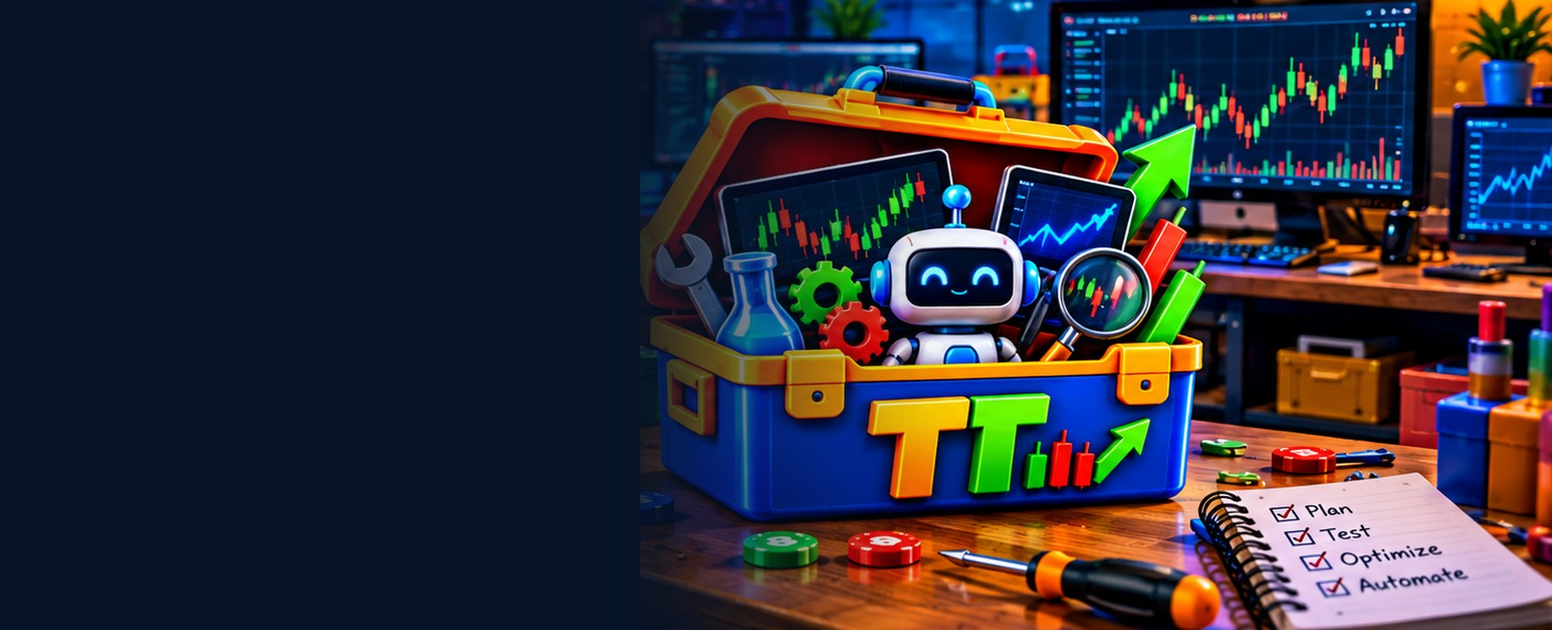
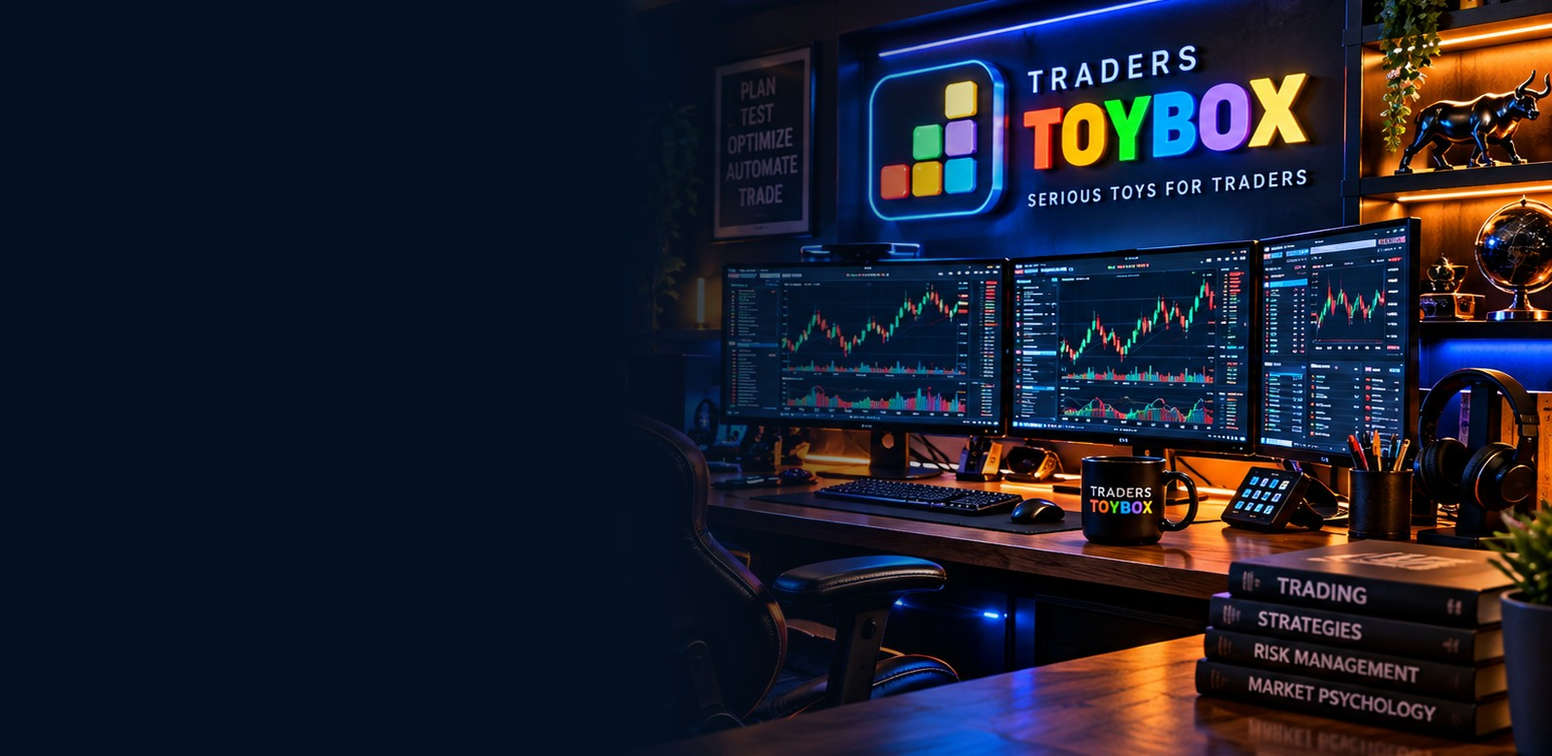
Add files via upload

diff --git a/index.html b/index.html
@@ -20,6 +20,21 @@
 <link href="/assets/favicon.png" rel="icon" type="image/png"/>
 <style>
 :root{--bg:#061019;--panel:#0f2533;--panel2:#153548;--line:#285268;--teal:#43e1dd;--cyan:#31c7ee;--white:#f4faff;--muted:#b0c9d5}*{box-sizing:border-box}html{scroll-behavior:smooth}body{margin:0;background:radial-gradient(ellipse at 70% 0,#153e4d 0,#07131e 42%,#050d14 100%);color:var(--white);font:15px/1.6 'Segoe UI',Arial,sans-serif}a{color:inherit;text-decoration:none}button{font:inherit}.site-nav{position:sticky;top:0;z-index:40;display:flex;align-items:center;justify-content:space-between;gap:22px;padding:14px max(22px,calc((100vw - 1390px)/2));background:#07141dea;border-bottom:1px solid #31596a;backdrop-filter:blur(16px)}.site-brand{font-size:23px;font-weight:950;letter-spacing:-.8px;white-space:nowrap}.site-brand em{font-style:normal;color:var(--teal)}.site-links{display:flex;gap:6px;flex-wrap:wrap}.site-links a{padding:9px 11px;border-radius:7px;color:#c5d8e2;font-size:13px;font-weight:700}.site-links a:hover,.site-links a[aria-current]{background:#153c4d;color:#77edf2}.shell{max-width:1430px;padding:26px 25px 70px;margin:auto}.hero{position:relative;min-height:620px;overflow:hidden;border:1px solid #32758b;border-radius:18px;background:#071925 url('assets/toybox-hero.jpg') center center/cover no-repeat;display:flex;align-items:flex-end;box-shadow:0 30px 100px #0006}.hero:before{content:'';position:absolute;inset:0;background:linear-gradient(90deg,#06121cf5 0%,#06131cdd 29%,#06131c22 75%),linear-gradient(0deg,#06121ce8 0%,transparent 60%)}.hero-content{position:relative;z-index:1;padding:45px 50px;max-width:730px}.eyebrow{font-size:12px;letter-spacing:2.4px;font-weight:950;color:#73f3f2;text-transform:uppercase}.hero h1{font-size:clamp(42px,5vw,75px);line-height:1.03;margin:14px 0 18px;letter-spacing:-2px;text-transform:uppercase;text-shadow:0 5px 25px #000}.hero h1 span{color:var(--teal)}.hero p{font-size:18px;line-height:1.55;color:#e3f3f9;max-width:590px;text-shadow:0 2px 12px #000}.actions{display:flex;flex-wrap:wrap;gap:12px;margin-top:24px}.btn{display:inline-flex;align-items:center;justify-content:center;min-height:48px;padding:12px 20px;border-radius:8px;background:linear-gradient(110deg,#50e9dd,#2bbde9);color:#061924;font-weight:900;font-size:13px;letter-spacing:.3px}.btn.outline{background:#0c2739dd;color:#e5fbff;border:1px solid #5cc9dc}.btn:hover{filter:brightness(1.13)}.status{margin-top:17px;font-size:11px;color:#a6c4d0}.strip{display:grid;grid-template-columns:repeat(6,1fr);gap:1px;background:#244b5b;border:1px solid #2d6376;border-radius:10px;overflow:hidden;margin:18px 0 55px}.strip span{background:#0d2635;padding:14px 8px;text-align:center;font-weight:900;color:#9ee7ef;font-size:12px;letter-spacing:.5px}.section{margin:54px 0;scroll-margin-top:90px}.section-heading{max-width:980px;margin-bottom:25px}.section-heading h2{font-size:clamp(30px,3.2vw,48px);letter-spacing:-1.1px;line-height:1.13;margin:10px 0}.section-heading p{color:var(--muted);font-size:16px;margin:0}.grid3{display:grid;grid-template-columns:repeat(3,1fr);gap:17px}.grid4{display:grid;grid-template-columns:repeat(4,1fr);gap:14px}.card{border:1px solid #315d70;background:linear-gradient(155deg,#153347,#0d202e);border-radius:13px;padding:24px;position:relative;overflow:hidden}.card.featured{border-color:#52bbcc;background:linear-gradient(155deg,#194659,#102838)}.card .symbol{font-size:32px;color:#72e8e5;margin-bottom:12px}.card h3{font-size:24px;line-height:1.15;margin:8px 0 10px}.card p{color:#b7ceda;margin:0 0 16px}.card ul{padding-left:18px;color:#c8dbe5;font-size:13px}.card li{margin:8px 0}.card .small{font-size:11px;color:#79e8e5;letter-spacing:1.4px;font-weight:900}.card .btn{margin-top:12px}.feature-card h3{font-size:19px}.feature-card .symbol{font-size:27px}.feature-card p{font-size:13px}.callout{padding:30px;border:1px solid #3d8b9c;background:linear-gradient(120deg,#113648,#0b1f2e);border-radius:15px}.callout strong{color:#8af1ef}.process{display:grid;grid-template-columns:repeat(6,1fr);gap:10px}.step{padding:20px 13px;border:1px solid #315d70;border-radius:10px;background:#102b3b;min-height:170px}.step b{font-size:28px;color:#57e5e0}.step h3{font-size:16px;margin:12px 0 7px}.step p{font-size:12px;color:#b7d0dc;margin:0}.showroom{display:grid;grid-template-columns:1fr 1fr;gap:18px}.showroom .card{min-height:250px;padding:30px}.showroom h3{font-size:30px}.badge{display:inline-block;padding:5px 10px;border:1px solid #3c7c8f;border-radius:99px;color:#94e7f0;font-size:11px;font-weight:900}.fine{color:#8eacbb;font-size:12px}.footer{border-top:1px solid #294b5c;margin-top:65px;padding:25px 0;display:flex;justify-content:space-between;gap:18px;color:#9db9c6;font-size:12px;flex-wrap:wrap}.footer a{color:#9cecf2}.mechanic-mark{width:49px;height:49px;display:inline-flex;align-items:center;justify-content:center;border:1px solid #41849a;border-radius:11px;background:#153647;margin-right:13px;vertical-align:middle;font-size:26px}@media(max-width:1050px){.grid4{grid-template-columns:repeat(2,1fr)}.process{grid-template-columns:repeat(3,1fr)}.site-nav{flex-direction:column;align-items:flex-start}.hero{min-height:550px}}@media(max-width:700px){.shell{padding:14px 14px 40px}.hero{min-height:580px;background-position:60% center}.hero:before{background:linear-gradient(0deg,#06121cfa 0%,#06121ccf 48%,#06121c33 100%)}.hero-content{padding:23px}.hero h1{font-size:42px}.hero p{font-size:15px}.strip{grid-template-columns:repeat(3,1fr)}.grid3,.grid4,.showroom{grid-template-columns:1fr}.process{grid-template-columns:repeat(2,1fr)}.section{margin:38px 0}.site-links a{font-size:12px;padding:6px}.callout{padding:20px}}
+
+/* Traders Toybox brand accents — logo-matched orange */
+:root { --toybox-orange:#F9A21F; }
+.hero h1 span { color:var(--toybox-orange) !important; text-shadow:0 0 32px #f9a21f33; }
+.hero .eyebrow { color:var(--toybox-orange) !important; }
+.hero-download-btn { background:var(--toybox-orange) !important; border-color:var(--toybox-orange) !important; color:#09182c !important; }
+.hero-download-btn:hover { background:#ffb83c !important; }
+/* Nine feature cards arranged in three even columns on desktop. */
+#features .grid4 { grid-template-columns:repeat(3,minmax(0,1fr)); }
+#features .backtester-card { border-color:#f9a21f80; background:linear-gradient(145deg,#142b49,#102038); }
+#features .backtester-card .symbol { color:var(--toybox-orange); }
+#features .backtester-card a { color:var(--toybox-orange); font-weight:800; text-decoration:none; }
+#features .backtester-card a:hover { text-decoration:underline; }
+@media(max-width:850px) { #features .grid4 {grid-template-columns:repeat(2,minmax(0,1fr));} }
+@media(max-width:560px) { #features .grid4 {grid-template-columns:1fr;} }
 </style>
 <style id="bm-blue-orange-v3">
 /* V3 — Midnight navy / electric blue / mechanic orange. No existing hrefs or JS modified. */
@@ -148,12 +163,11 @@ body{background:radial-gradient(ellipse at 78% -5%,#153c69 0,#0b1d34 37%,#080f1c
 .hero:before{background:linear-gradient(90deg,rgba(5,16,32,.88) 0%,rgba(5,16,32,.58) 35%,rgba(5,16,32,0) 72%),linear-gradient(0deg,rgba(5,16,32,.35),transparent 45%)}
 .hero:after{opacity:.25}
 @media(max-width:700px){.hero{background-position:64% center}.hero:before{background:linear-gradient(0deg,rgba(5,16,32,.97) 0%,rgba(5,16,32,.83) 60%,rgba(5,16,32,.3) 100%)}}
-</style></head>
+</style><style>#features .feature-card{display:flex;flex-direction:column}#features .feature-card>a{display:inline-block;margin-top:auto;padding-top:16px;color:#f9a21f;font-size:12px;font-weight:800;letter-spacing:.05em;text-decoration:none}#features .feature-card>a:hover{color:#fff}</style></head>
 <body><nav aria-label="Main navigation" class="site-nav"><div class="site-links"><a aria-current="page" href="index.html">Home</a><a href="#modes">Strategy Modes</a><a href="#demo">How It Works</a><a href="basic.html#premium">Premium Bots</a><a href="basic.html">Trading Bots</a><a href="tools.html">Trading Tools</a><a href="howitworks.html">Control Center</a><a href="product_slideshows.html">Product Slideshows</a><a href="about.html">About</a></div><a aria-label="Traders Toybox — Home" class="site-brand" href="index.html"><img alt="Traders Toybox" src="assets/logo.png"/></a></nav>
 <main class="shell"><section aria-label="Traders Toybox professional trading tools" class="hero" id="top"><div class="hero-content"><div class="eyebrow">TRADERS TOYBOX · ADVANCED TRADING SOFTWARE</div><h1>PROFESSIONAL TRADING<br/><span>TOOLS.</span></h1><p>Advanced charts, automated trading bots, and strategy research tools designed for serious traders. <strong>Build, test, diagnose and refine your strategies</strong> with the tools that fit your trading workflow.</p><div class="actions hero-download-actions"><a class="btn hero-download-btn" href="basic.html">EXPLORE TRADING TOOLS →</a><div class="hero-bot-actions"><a class="btn outline" href="basic.html#free">FREE TRADING BOTS →</a><a class="btn outline" href="basic.html#premium">PREMIUM TRADING BOTS →</a></div></div><div class="status">CHART · BACKTEST · AUTOMATE · ANALYZE · VALIDATE · TRADE</div></div></section>
-<div aria-label="Research workflow" class="strip"><span>01 BUILD</span><span>02 BACKTEST</span><span>03 DIAGNOSE</span><span>04 REPAIR</span><span>05 VALIDATE</span><span>06 DEPLOY</span></div><section class="section" id="features"><div class="section-heading"><div class="eyebrow">Trading platform capabilities</div><h2>Integrated tools for serious traders.</h2><p>A research-first platform that connects strategy development with the trading tools and bots already in the ecosystem.</p></div><div class="grid4"><article class="card feature-card"><div class="symbol">⌘</div><h3>Strategy Builder</h3><p>Configure rules and testable hypotheses, with planned natural-language HAL assistance.</p></article><article class="card feature-card"><div class="symbol">▤</div><h3>Trade Diagnostics</h3><p>Review winners, losers, exits, regime patterns and risk characteristics.</p></article><article class="card feature-card"><div class="symbol">⚙</div><h3>Repair History</h3><p>Keep versions, proposed fixes, failed experiments and evidence together.</p></article><article class="card feature-card"><div class="symbol">↗</div><h3>Walk-Forward Lab</h3><p>Use chronological windows to challenge promising candidates.</p></article><article class="card feature-card"><div class="symbol">▧</div><h3>Advanced Chart</h3><p>Professional charting and chart-based trading tools.</p></article><article class="card feature-card"><div class="symbol">◈</div><h3>HAL Intelligence</h3><p>Research support, decision analysis and controlled repair planning.</p></article><article class="card feature-card"><div class="symbol">⌁</div><h3>Autonomous Trading Bots</h3><p>Automate strategy execution with specialized trading bots, configurable controls, and supported broker connections.</p></article><article class="card feature-card"><div class="symbol">⇄</div><h3>Broker Hub</h3><p>Shared broker integration architecture for compatible tools and bots.</p></article></div><div class="actions"><a class="btn outline" href="tools.html">EXPLORE TRADING TOOLS ↗</a><a class="btn outline" href="hal_trade_planner.html">EXPLORE HAL VISION ↗</a></div></section><section class="section" id="demo"><div class="section-heading"><div class="eyebrow">SEE IT IN ACTION</div><h2>BUILD, TEST, AND ANALYZE TRADING STRATEGIES.</h2><p>Describe an idea, investigate a strategy, or turn a chart candle into a backtest.</p></div><div class="bm-demo-grid"><article class="bm-demo-card"><div class="bm-demo-copy"><div class="eyebrow">01 · NATURAL LANGUAGE BUILDER</div><h3>DESCRIBE IT. BUILD IT.</h3><p>See a plain-English SNAP RSI idea translated into editable strategy settings.</p></div><video aria-label="Simulated natural language strategy builder demonstration" controls="" playsinline="" poster="assets/videos/Backtest_Mechanic_Natural_Language_Poster.jpg" preload="metadata"><source src="assets/videos/Backtest_Mechanic_Natural_Language_Demo.mp4" type="video/mp4"/>Your browser does not support HTML5 video.</video><p class="fine">Simulated interface demonstration; configuration shown is not a backtest result.</p></article><article class="bm-demo-card"><div class="bm-demo-copy"><div class="eyebrow">02 · STRATEGY RESEARCH</div><h3>DIAGNOSE IT. REPAIR IT.</h3><p>Explore the testing, diagnostics, and controlled-repair research workflow.</p></div><video aria-label="Simulated strategy repair workflow demonstration" controls="" playsinline="" preload="metadata"><source src="assets/videos/Backtest_Mechanic_Homepage_Animation.mp4" type="video/mp4"/>Your browser does not support HTML5 video.</video><p class="fine">Illustrative workflow animation; simulated results do not guarantee profitability.</p></article><article class="bm-demo-card"><div class="bm-demo-copy"><div class="eyebrow">03 · CHART SNAPSHOT</div><h3>SEE IT. CAPTURE IT. TEST IT.</h3><p>Click a chart candle, capture its conditions, and build a strategy for historical testing.</p></div><video aria-label="Illustrative chart Snapshot to backtest workflow animation" controls="" playsinline="" poster="assets/videos/Backtest_Mechanic_Snapshot_Homepage_Poster.jpg" preload="metadata"><source src="assets/videos/Backtest_Mechanic_Snapshot_Homepage_Animation.mp4" type="video/mp4"/>Your browser does not support HTML5 video.</video><p class="fine">Illustrative workflow animation; not a live backtest or performance result.</p></article><article class="bm-demo-card"><div class="bm-demo-copy"><div class="eyebrow">04 · AUTOMATIC CHART PATTERN DETECTION</div><h3>LET THE CHART FIND THE PATTERNS.</h3><p>Watch Chart Lab automatically identify diagonal trendlines, triangles, double tops and bottoms, and candlestick patterns—no manual drawing required.</p></div><video aria-label="Illustrative automatic chart pattern detection simulation with music" controls="" playsinline="" preload="metadata"><source src="assets/videos/Backtest_Mechanic_Auto_Pattern_Detection_Demo_With_Music.mp4" type="video/mp4"/>Your browser does not support HTML5 video.</video><p class="fine">Illustrative automatic pattern detection simulation, not live market analysis or trading performance.</p></article></div></section><section class="section" id="difference"><div class="section-heading"><div class="eyebrow">BUILD | REPAIR | DEPLOY</div><h2>STRATEGY PERFORMANCE NOT MEETING EXPECTATIONS? <span>IDENTIFY WHAT NEEDS TO CHANGE.</span></h2><p>Backtest your strategy. Find its weaknesses. Attempt a repair. Test the changes. Bring the proposed improvements back to your bot.</p></div><div class="grid3"><article class="card feature-card"><h3>Diagnose. Repair. Retest.</h3><p>Find weaknesses, propose fixes, and compare repairs with the original strategy.</p><button aria-label="More about Diagnose. Repair. Retest." class="info-btn" data-info="0" type="button">ⓘ LEARN MORE</button></article><article class="card feature-card"><h3>Intelligent Repair Modes</h3><p>Choose manual, assisted, or eventually autonomous strategy investigation.</p><button aria-label="More about Intelligent Repair Modes" class="info-btn" data-info="1" type="button">ⓘ LEARN MORE</button></article><article class="card feature-card"><h3>Dynamic Market Intelligence</h3><p>Study strategy behavior as volatility and market conditions change.</p><button aria-label="More about Dynamic Market Intelligence" class="info-btn" data-info="2" type="button">ⓘ LEARN MORE</button></article><article class="card feature-card"><h3>Rules That Can Adapt</h3><p>Explore intelligent adjustments within explicit trading and risk boundaries.</p><button aria-label="More about Rules That Can Adapt" class="info-btn" data-info="3" type="button">ⓘ LEARN MORE</button></article><article class="card feature-card"><h3>Refine. Validate. Deploy.</h3><p>Export a proposed repair and review it in a compatible trading bot.</p><button aria-label="More about Repair It. Return It." class="info-btn" data-info="4" type="button">ⓘ LEARN MORE</button></article><article class="card feature-card"><h3>Build It. Trade It.</h3><p>Connect strategy research to compatible bots and advanced charting tools.</p><button aria-label="More about Build It. Trade It." class="info-btn" data-info="5" type="button">ⓘ LEARN MORE</button></article></div></section><div class="dual-feature-row"><section class="section" id="bot-test-bench"><div class="callout"><div class="eyebrow">SPECIALTY BOT COMPATIBILITY · STRATEGY RESEARCH</div><h2>YOUR BOT. <span>OUR TEST BENCH.</span></h2><p>Already using one of our specialty trading bots? Backtest Mechanic lets you select a supported bot as your strategy target, see which indicators are compatible, and explore changes within that bot's supported feature set. Build and compare ideas, review trade diagnostics, and use HAL's research workflow to investigate possible improvements.</p><p class="fine" style="margin-top:12px">TrendBot indicator filtering is available as an early compatibility preview. Full native bot replay, verified bot-specific backtesting, and direct import/export of all bot settings are not yet available; a universal-engine test should not be mistaken for an exact reproduction of a specialty bot.</p><div class="actions"><a class="btn" href="basic.html#backtest-mechanic">VIEW BACKTEST MECHANIC →</a><a class="btn outline" href="basic.html">SEE SPECIALTY BOTS →</a></div></div></section><section class="section" id="adaptive"><div class="callout"><div class="eyebrow">The next generation of strategy research</div><h2>THE MARKET ISN'T STATIC. <span>WHY SHOULD YOUR STRATEGY BE?</span></h2><p>Move beyond rigid historical rules toward intelligent, adaptable strategies—with you deciding how much autonomy to allow.</p><button class="info-btn" data-info="6" type="button">ⓘ HOW ADAPTIVE TESTING WORKS</button></div></section></div><section class="section" id="privacy"><div class="section-heading"><div class="eyebrow">LOCAL-FIRST TRADING RESEARCH · BUILT FOR SERIOUS TRADERS</div><h2>HELLO, WORLD. <span>YOUR TRADE ISN'T ALONE.</span></h2><p>Your strategies are your intellectual property. Research and run compatible trading tools on your own computer—without unnecessarily publishing your indicators, experiments, or strategy logic to a hosted research platform.</p></div><div class="grid3"><article class="card feature-card"><h3>YOUR MACHINE. YOUR EDGE.</h3><p>Keep strategy research, settings, and chart work under your control.</p></article><article class="card feature-card"><h3>LESS EXPOSURE. MORE CONTROL.</h3><p>Reduce unnecessary third-party access to your research—not the visibility required to place trades.</p></article><article class="card feature-card"><h3>PRECISION OVER CLUTTER.</h3><p>Purpose-built charts, essential indicators, and deliberate backtests. No indicator overload.</p></article></div><div class="actions"><button class="info-btn" data-info="7" type="button">ⓘ WHY PRIVATE, LOCAL RESEARCH MATTERS</button></div><p class="fine" style="margin-top:14px">Local operation does not hide orders from your broker, exchange, or market data providers. Security also depends on your device, network, and broker connections.</p></section><section class="section" id="philosophy"><div class="grid3 philosophy-grid"><article class="card feature-card philosophy-card" id="principle-8"><div class="eyebrow">THE WORKSTATION</div><h3>SERIOUS GAMERS BUILD RIGS. SERIOUS TRADERS BUILD WORKSTATIONS.</h3><p>Your charts. Your strategies. Your backtests. Your bots. Your hardware. Your control.</p><button aria-label="More about THE WORKSTATION" class="info-btn" data-info="8" type="button">ⓘ LEARN MORE</button></article><article class="card feature-card philosophy-card" id="principle-9"><div class="eyebrow">BUILT WITH INTENT</div><h3>NOT AN INDICATOR PLAYGROUND.</h3><p>Purpose-built charts. Essential indicators. The information you need—without the noise.</p><button aria-label="More about BUILT WITH INTENT" class="info-btn" data-info="9" type="button">ⓘ LEARN MORE</button></article><article class="card feature-card philosophy-card" id="principle-10"><div class="eyebrow">THE TEST BENCH</div><h3>WE DON’T RUN BACKTESTS FOR PRETTY NUMBERS.</h3><p>Ask a question. Test a hypothesis. Diagnose the trades. Change one thing. Retest.</p><button aria-label="More about THE TEST BENCH" class="info-btn" data-info="10" type="button">ⓘ LEARN MORE</button></article><article class="card feature-card philosophy-card" id="principle-11"><div class="eyebrow">INTELLIGENCE WITH A JOB</div><h3>DON’T JUST REJECT A STRATEGY. FIND OUT WHY.</h3><p>Diagnose failure. Propose a controlled repair. Test whether the evidence supports it.</p><button aria-label="More about INTELLIGENCE WITH A JOB" class="info-btn" data-info="11" type="button">ⓘ LEARN MORE</button></article><article class="card feature-card philosophy-card" id="principle-12"><div class="eyebrow">DESIGNED TO EXECUTE</div><h3>FOCUSED TOOLS. REAL WORKFLOWS.</h3><p>Research on the bench. Review the settings. Hand off to a compatible trading bot.</p><button aria-label="More about DESIGNED TO EXECUTE" class="info-btn" data-info="12" type="button">ⓘ LEARN MORE</button></article></div></section>
+<div aria-label="Trading platform tools" class="strip"><span>01 CHART</span><span>02 BOTS</span><span>03 BACKTEST</span><span>04 INTELLIGENCE</span><span>05 ANALYZE</span><span>06 TRADE</span></div><section class="section" id="features"><div class="section-heading"><div class="eyebrow">THE TRADERS TOYBOX COLLECTION</div><h2>Serious tools for every trading workflow.</h2><p>Explore the trading software, automation, charting, intelligence and research tools available across Traders Toybox.</p></div><div class="grid4"><article class="card feature-card"><div class="symbol">▧</div><h3>Advanced Chart</h3><p>Professional live charting, indicators, private drawings and technical analysis.</p><a href="basic.html#chart">VIEW TOOL →</a></article><article class="card feature-card"><div class="symbol">↗</div><h3>Ultimate Scalper</h3><p>Chart-based trade planning, order adjustments and advanced scalping controls.</p><a href="basic.html#premium">VIEW TOOL →</a></article><article class="card feature-card"><div class="symbol">⌁</div><h3>Trading Bots</h3><p>Specialized automated strategies, scanning, execution and configurable controls.</p><a href="basic.html#premium">VIEW TOOL →</a></article><article class="card feature-card"><div class="symbol">▥</div><h3>Backtest Mechanic</h3><p>Historical strategy research, backtesting, diagnostics and walk-forward validation.</p><a href="basic.html#backtest-mechanic">VIEW TOOL →</a></article><article class="card feature-card"><div class="symbol">◈</div><h3>HAL Intelligence</h3><p>AI-assisted trading research, strategy analysis and decision support.</p><a href="basic.html#intelligence">VIEW TOOL →</a></article><article class="card feature-card"><div class="symbol">⇄</div><h3>Broker Hub</h3><p>Shared broker connectivity and integration across compatible trading applications.</p><a href="basic.html#control">VIEW TOOL →</a></article><article class="card feature-card"><div class="symbol">▤</div><h3>Control Center</h3><p>Manage, launch and monitor your trading bots and connected tools.</p><a href="basic.html#control">VIEW TOOL →</a></article><article class="card feature-card"><div class="symbol">✧</div><h3>The HIVE</h3><p>Community-driven sharing of setups, symbol intelligence and trading insights.</p><a href="basic.html#intelligence">VIEW TOOL →</a></article><article class="card feature-card"><div class="symbol">⌘</div><h3>Trading Tools</h3><p>Additional utilities, strategy controls and supporting trading applications.</p><a href="tools.html">VIEW TOOL →</a></article></div><div class="actions"><a class="btn outline" href="tools.html">EXPLORE TRADING TOOLS ↗</a><a class="btn outline" href="hal_trade_planner.html">EXPLORE HAL VISION ↗</a></div></section><section class="section" id="demo"><div class="section-heading"><div class="eyebrow">SEE IT IN ACTION</div><h2>BUILD, TEST, AND ANALYZE TRADING STRATEGIES.</h2><p>Describe an idea, investigate a strategy, or turn a chart candle into a backtest.</p></div><div class="bm-demo-grid"><article class="bm-demo-card"><div class="bm-demo-copy"><div class="eyebrow">01 · NATURAL LANGUAGE BUILDER</div><h3>DESCRIBE IT. BUILD IT.</h3><p>See a plain-English SNAP RSI idea translated into editable strategy settings.</p></div><video aria-label="Simulated natural language strategy builder demonstration" controls="" playsinline="" poster="assets/videos/Backtest_Mechanic_Natural_Language_Poster.jpg" preload="metadata"><source src="assets/videos/Backtest_Mechanic_Natural_Language_Demo.mp4" type="video/mp4"/>Your browser does not support HTML5 video.</video><p class="fine">Simulated interface demonstration; configuration shown is not a backtest result.</p></article><article class="bm-demo-card"><div class="bm-demo-copy"><div class="eyebrow">02 · STRATEGY RESEARCH</div><h3>DIAGNOSE IT. REPAIR IT.</h3><p>Explore the testing, diagnostics, and controlled-repair research workflow.</p></div><video aria-label="Simulated strategy repair workflow demonstration" controls="" playsinline="" preload="metadata"><source src="assets/videos/Backtest_Mechanic_Homepage_Animation.mp4" type="video/mp4"/>Your browser does not support HTML5 video.</video><p class="fine">Illustrative workflow animation; simulated results do not guarantee profitability.</p></article><article class="bm-demo-card"><div class="bm-demo-copy"><div class="eyebrow">03 · CHART SNAPSHOT</div><h3>SEE IT. CAPTURE IT. TEST IT.</h3><p>Click a chart candle, capture its conditions, and build a strategy for historical testing.</p></div><video aria-label="Illustrative chart Snapshot to backtest workflow animation" controls="" playsinline="" poster="assets/videos/Backtest_Mechanic_Snapshot_Homepage_Poster.jpg" preload="metadata"><source src="assets/videos/Backtest_Mechanic_Snapshot_Homepage_Animation.mp4" type="video/mp4"/>Your browser does not support HTML5 video.</video><p class="fine">Illustrative workflow animation; not a live backtest or performance result.</p></article><article class="bm-demo-card"><div class="bm-demo-copy"><div class="eyebrow">04 · AUTOMATIC CHART PATTERN DETECTION</div><h3>LET THE CHART FIND THE PATTERNS.</h3><p>Watch Chart Lab automatically identify diagonal trendlines, triangles, double tops and bottoms, and candlestick patterns—no manual drawing required.</p></div><video aria-label="Illustrative automatic chart pattern detection simulation with music" controls="" playsinline="" preload="metadata"><source src="assets/videos/Backtest_Mechanic_Auto_Pattern_Detection_Demo_With_Music.mp4" type="video/mp4"/>Your browser does not support HTML5 video.</video><p class="fine">Illustrative automatic pattern detection simulation, not live market analysis or trading performance.</p></article></div></section><section class="section" id="difference"><div class="section-heading"><div class="eyebrow">BUILD | REPAIR | DEPLOY</div><h2>STRATEGY PERFORMANCE NOT MEETING EXPECTATIONS? <span>IDENTIFY WHAT NEEDS TO CHANGE.</span></h2><p>Backtest your strategy. Find its weaknesses. Attempt a repair. Test the changes. Bring the proposed improvements back to your bot.</p></div><div class="grid3"><article class="card feature-card"><h3>Diagnose. Repair. Retest.</h3><p>Find weaknesses, propose fixes, and compare repairs with the original strategy.</p><button aria-label="More about Diagnose. Repair. Retest." class="info-btn" data-info="0" type="button">ⓘ LEARN MORE</button></article><article class="card feature-card"><h3>Intelligent Repair Modes</h3><p>Choose manual, assisted, or eventually autonomous strategy investigation.</p><button aria-label="More about Intelligent Repair Modes" class="info-btn" data-info="1" type="button">ⓘ LEARN MORE</button></article><article class="card feature-card"><h3>Dynamic Market Intelligence</h3><p>Study strategy behavior as volatility and market conditions change.</p><button aria-label="More about Dynamic Market Intelligence" class="info-btn" data-info="2" type="button">ⓘ LEARN MORE</button></article><article class="card feature-card"><h3>Rules That Can Adapt</h3><p>Explore intelligent adjustments within explicit trading and risk boundaries.</p><button aria-label="More about Rules That Can Adapt" class="info-btn" data-info="3" type="button">ⓘ LEARN MORE</button></article><article class="card feature-card"><h3>Refine. Validate. Deploy.</h3><p>Export a proposed repair and review it in a compatible trading bot.</p><button aria-label="More about Repair It. Return It." class="info-btn" data-info="4" type="button">ⓘ LEARN MORE</button></article><article class="card feature-card"><h3>Build It. Trade It.</h3><p>Connect strategy research to compatible bots and advanced charting tools.</p><button aria-label="More about Build It. Trade It." class="info-btn" data-info="5" type="button">ⓘ LEARN MORE</button></article></div></section><div class="dual-feature-row"><section class="section" id="bot-test-bench"><div class="callout"><div class="eyebrow">SPECIALTY BOT COMPATIBILITY · STRATEGY RESEARCH</div><h2>YOUR BOT. <span>OUR TEST BENCH.</span></h2><p>Already using one of our specialty trading bots? Backtest Mechanic lets you select a supported bot as your strategy target, see which indicators are compatible, and explore changes within that bot's supported feature set. Build and compare ideas, review trade diagnostics, and use HAL's research workflow to investigate possible improvements.</p><p class="fine" style="margin-top:12px">TrendBot indicator filtering is available as an early compatibility preview. Full native bot replay, verified bot-specific backtesting, and direct import/export of all bot settings are not yet available; a universal-engine test should not be mistaken for an exact reproduction of a specialty bot.</p><div class="actions"><a class="btn" href="basic.html#backtest-mechanic">VIEW BACKTEST MECHANIC →</a><a class="btn outline" href="basic.html">SEE SPECIALTY BOTS →</a></div></div></section><section class="section" id="adaptive"><div class="callout"><div class="eyebrow">The next generation of strategy research</div><h2>THE MARKET ISN'T STATIC. <span>WHY SHOULD YOUR STRATEGY BE?</span></h2><p>Move beyond rigid historical rules toward intelligent, adaptable strategies—with you deciding how much autonomy to allow.</p><button class="info-btn" data-info="6" type="button">ⓘ HOW ADAPTIVE TESTING WORKS</button></div></section></div><section class="section" id="privacy"><div class="section-heading"><div class="eyebrow">LOCAL-FIRST TRADING RESEARCH · BUILT FOR SERIOUS TRADERS</div><h2>HELLO, WORLD. <span>YOUR TRADE ISN'T ALONE.</span></h2><p>Your strategies are your intellectual property. Research and run compatible trading tools on your own computer—without unnecessarily publishing your indicators, experiments, or strategy logic to a hosted research platform.</p></div><div class="grid3"><article class="card feature-card"><h3>YOUR MACHINE. YOUR EDGE.</h3><p>Keep strategy research, settings, and chart work under your control.</p></article><article class="card feature-card"><h3>LESS EXPOSURE. MORE CONTROL.</h3><p>Reduce unnecessary third-party access to your research—not the visibility required to place trades.</p></article><article class="card feature-card"><h3>PRECISION OVER CLUTTER.</h3><p>Purpose-built charts, essential indicators, and deliberate backtests. No indicator overload.</p></article></div><div class="actions"><button class="info-btn" data-info="7" type="button">ⓘ WHY PRIVATE, LOCAL RESEARCH MATTERS</button></div><p class="fine" style="margin-top:14px">Local operation does not hide orders from your broker, exchange, or market data providers. Security also depends on your device, network, and broker connections.</p></section><section class="section" id="philosophy"><div class="grid3 philosophy-grid"><article class="card feature-card philosophy-card" id="principle-8"><div class="eyebrow">THE WORKSTATION</div><h3>SERIOUS GAMERS BUILD RIGS. SERIOUS TRADERS BUILD WORKSTATIONS.</h3><p>Your charts. Your strategies. Your backtests. Your bots. Your hardware. Your control.</p><button aria-label="More about THE WORKSTATION" class="info-btn" data-info="8" type="button">ⓘ LEARN MORE</button></article><article class="card feature-card philosophy-card" id="principle-9"><div class="eyebrow">BUILT WITH INTENT</div><h3>NOT AN INDICATOR PLAYGROUND.</h3><p>Purpose-built charts. Essential indicators. The information you need—without the noise.</p><button aria-label="More about BUILT WITH INTENT" class="info-btn" data-info="9" type="button">ⓘ LEARN MORE</button></article><article class="card feature-card philosophy-card" id="principle-10"><div class="eyebrow">THE TEST BENCH</div><h3>WE DON’T RUN BACKTESTS FOR PRETTY NUMBERS.</h3><p>Ask a question. Test a hypothesis. Diagnose the trades. Change one thing. Retest.</p><button aria-label="More about THE TEST BENCH" class="info-btn" data-info="10" type="button">ⓘ LEARN MORE</button></article><article class="card feature-card philosophy-card" id="principle-11"><div class="eyebrow">INTELLIGENCE WITH A JOB</div><h3>DON’T JUST REJECT A STRATEGY. FIND OUT WHY.</h3><p>Diagnose failure. Propose a controlled repair. Test whether the evidence supports it.</p><button aria-label="More about INTELLIGENCE WITH A JOB" class="info-btn" data-info="11" type="button">ⓘ LEARN MORE</button></article><article class="card feature-card philosophy-card" id="principle-12"><div class="eyebrow">DESIGNED TO EXECUTE</div><h3>FOCUSED TOOLS. REAL WORKFLOWS.</h3><p>Research on the bench. Review the settings. Hand off to a compatible trading bot.</p><button aria-label="More about DESIGNED TO EXECUTE" class="info-btn" data-info="12" type="button">ⓘ LEARN MORE</button></article></div></section>
 <section class="section" id="modes"><div class="section-heading"><div class="eyebrow">Choose your research mode</div><h2>Three ways to work on your strategy.</h2><p>Choose how much control HAL has during strategy research. All three modes use the same research foundation.</p></div><div class="grid3"><article class="card"><div class="symbol">🔧</div><div class="small">MODE 01 · DO IT YOURSELF</div><h3>Manual Research</h3><p>You set the strategy, choose the rules and run the raw scans. HAL doesn't change anything or initiate repair research.</p><ul><li>Manual strategy configuration</li><li>Raw backtests and trade reports</li><li>Full control over every adjustment</li></ul><a class="btn outline" href="#features">SEE THE WORKFLOW →</a></article><article class="card featured"><div class="symbol">⚙</div><div class="small">MODE 02 · YOU + HAL</div><h3>Assisted Research</h3><p>Work shoulder to shoulder with HAL. Discuss the diagnosis, choose the repairs, and approve each research experiment.</p><ul><li>HAL-generated repair suggestions</li><li>Your ideas and manual overrides</li><li>Approval before experiments</li></ul><a class="btn" href="#features">EXPLORE ASSISTED RESEARCH →</a></article><article class="card"><div class="symbol">▥</div><div class="small">MODE 03 · HAL TAKES THE LEAD</div><h3>HAL-Guided Research</h3><p>Hand HAL the research assignment. It investigates, experiments and reports within the limits you approve.</p><ul><li>Structured automated research cycles</li><li>Experiment and resource limits</li><li>No automatic live deployment</li></ul><a class="btn outline" href="#features">SEE THE RESEARCH PROCESS →</a></article></div></section>
-
 <footer class="footer"><div>© Traders Toybox · Trading bots, charts &amp; strategy research.<br/><span class="fine">Beta features vary by build. Full autonomous repair and adaptive historical replay are in development. Trading involves risk; no performance is guaranteed.</span></div><div><a href="basic.html">Trading Bots</a> · <a href="tools.html">Tools</a> · <a href="howitworks.html">Control Center</a> · <a href="about.html">About</a></div></footer></main><div class="info-overlay" hidden="" id="infoOverlay"><div aria-labelledby="infoTitle" aria-modal="true" class="info-dialog" role="dialog"><button aria-label="Close information" class="info-close" type="button">×</button><div class="eyebrow">LEARN MORE</div><h2 id="infoTitle"></h2><div id="infoBody"></div></div></div><script>const infoContent=[["Diagnose. Repair. Retest.", "Existing beta: historical trade diagnostics, experimental parameter repair and original-versus-repaired comparisons. A backtest alone cannot explain every cause of failure. Controlled hypotheses and retests help distinguish a plausible repair from curve-fitting. Independent validation is still required."], ["Intelligent Repair Modes", "Backyard Mechanic keeps research in your hands. The Garage is designed for guided diagnosis and one-change repair experiments. Send It to the Factory is a planned autonomous investigation mode, not a production-ready feature. Conventional backtesters often leave the interpretation and repair process entirely to the trader."], ["Dynamic Market Intelligence", "Existing beta includes a historical Weather Report and trade diagnostics. Regime-aware decision support is a direction for further development. Fixed-rule backtests may conceal how results vary across volatility and trend regimes; no single regime model guarantees future results."], ["Rules That Can Adapt", "Planned capability: permission-based adjustments to entry filters, volatility thresholds, stops, trailing stops and position management. Credible adaptive historical tests must replay decisions using only information available at each point in time; full historical HAL/Sentience replay is not currently implemented."], ["Repair It. Return It.", "Existing beta: Backtest Mechanic exports a research-only JSON repair proposal. Compatible TrendBot v2.3.14 imports whitelisted settings, previews differences, stages changes and requires an explicit save. Importing a proposal does not automatically deploy a live trading strategy."], ["Build It. Trade It.", "The ecosystem favors deliberate backtests, uncluttered charts, and indicators selected for a specific trading purpose—not endless indicator menus. It includes specialized bots, broker integrations and chart-based tools. Click-to-chart trading is available only where implemented. Bot capabilities vary. The proposed research-to-execution handoff is deliberate, permission-based and auditable\u2014not a guarantee of profitability."], ["Adaptive historical testing", "A conventional backtest usually applies fixed rules throughout the sample. Adaptive testing would allow explicitly permitted changes to filters, thresholds and risk management as conditions change. Every historical decision must use only data available at that moment, with realistic costs and separate out-of-sample validation. This is a development direction, not an implemented full HAL historical replay."], ["HELLO, WORLD. YOUR TRADE ISN'T ALONE.", "Local-first research helps keep proprietary strategy rules, indicator settings, and backtest experiments on your own computer rather than routinely uploading them to a third-party platform. This can reduce unnecessary exposure, but it is not anonymity or guaranteed security: brokers and exchanges receive information required to execute orders, and network connections, telemetry, or compromised devices can still expose data. Automated market makers and liquidity providers analyze visible order-book liquidity and order flow; they do not universally see hidden retail stops. Spreads, slippage and execution costs matter when interpreting backtests. The diagram below is conceptual."],["SERIOUS GAMERS BUILD RIGS. SERIOUS TRADERS BUILD WORKSTATIONS.","A phone is useful for monitoring positions and alerts. A dedicated workstation offers screen space, consistent workflows and local control for deeper research, chart analysis and automated trading. More computing power does not guarantee returns; a disciplined environment supports more deliberate work."],["NOT AN INDICATOR PLAYGROUND.","Our design philosophy favors a readable chart and a small set of purposeful indicators over dozens of overlapping signals. Every indicator should have a clear role in the setup, decision, or risk process. Fewer indicators are not inherently more profitable; the goal is clarity and testable rules."],["WE DON\u2019T RUN BACKTESTS FOR PRETTY NUMBERS.","A good backtest is an experiment, not a search for the most flattering equity curve. Check data integrity, transaction costs, trade-level behavior and market regimes. Separate training from walk-forward and independent validation. Avoid repeatedly tuning against the same holdout. Existing beta offers diagnostics and experimental repairs; independent validation remains essential."],["DON\u2019T JUST REJECT A STRATEGY. FIND OUT WHY.","HAL Strategy Lab is intended to investigate weaknesses systematically: diagnosis, specific hypothesis, one controlled adjustment, retest, and independent validation. Keep a record of attempted repairs and rejected ideas. Autonomous investigation and full historical intelligence replay are development goals, not production-validated features."],["FOCUSED TOOLS. REAL WORKFLOWS.","The goal is a coherent workstation ecosystem rather than a collection of flashy disconnected tools. Existing research-only JSON proposals can be previewed and staged in compatible TrendBot builds, with explicit user save required. Broker execution and chart-trading capabilities vary by tool. No proposed repair is a promise of future performance."]];
 const overlay=document.getElementById('infoOverlay'), title=document.getElementById('infoTitle'), body=document.getElementById('infoBody');let priorFocus=null;document.querySelectorAll('[data-info]').forEach(b=>b.addEventListener('click',()=>{const i=Number(b.dataset.info);priorFocus=b;title.textContent=infoContent[i][0];body.textContent=infoContent[i][1];if(i===7){const diagram=document.createElement('div');diagram.className='order-diagram';diagram.innerHTML='<div>VISIBLE ORDER BOOK<br><small>Bids · Asks · Liquidity</small></div><div>→</div><div>ALGORITHMIC ANALYSIS<br><small>Quotes · Flow · Risk</small></div><div>→</div><div>EXECUTION<br><small>Spread · Slippage · Fills</small></div>';body.appendChild(diagram)}overlay.hidden=false;overlay.querySelector('.info-close').focus()}));function closeInfo(){overlay.hidden=true;priorFocus?.focus()}overlay.querySelector('.info-close').addEventListener('click',closeInfo);overlay.addEventListener('click',e=>{if(e.target===overlay)closeInfo()});document.addEventListener('keydown',e=>{if(e.key==='Escape'&&!overlay.hidden)closeInfo();if(e.key==='Tab'&&!overlay.hidden){e.preventDefault();overlay.querySelector('.info-close').focus()}});</script></body>
 </html>
